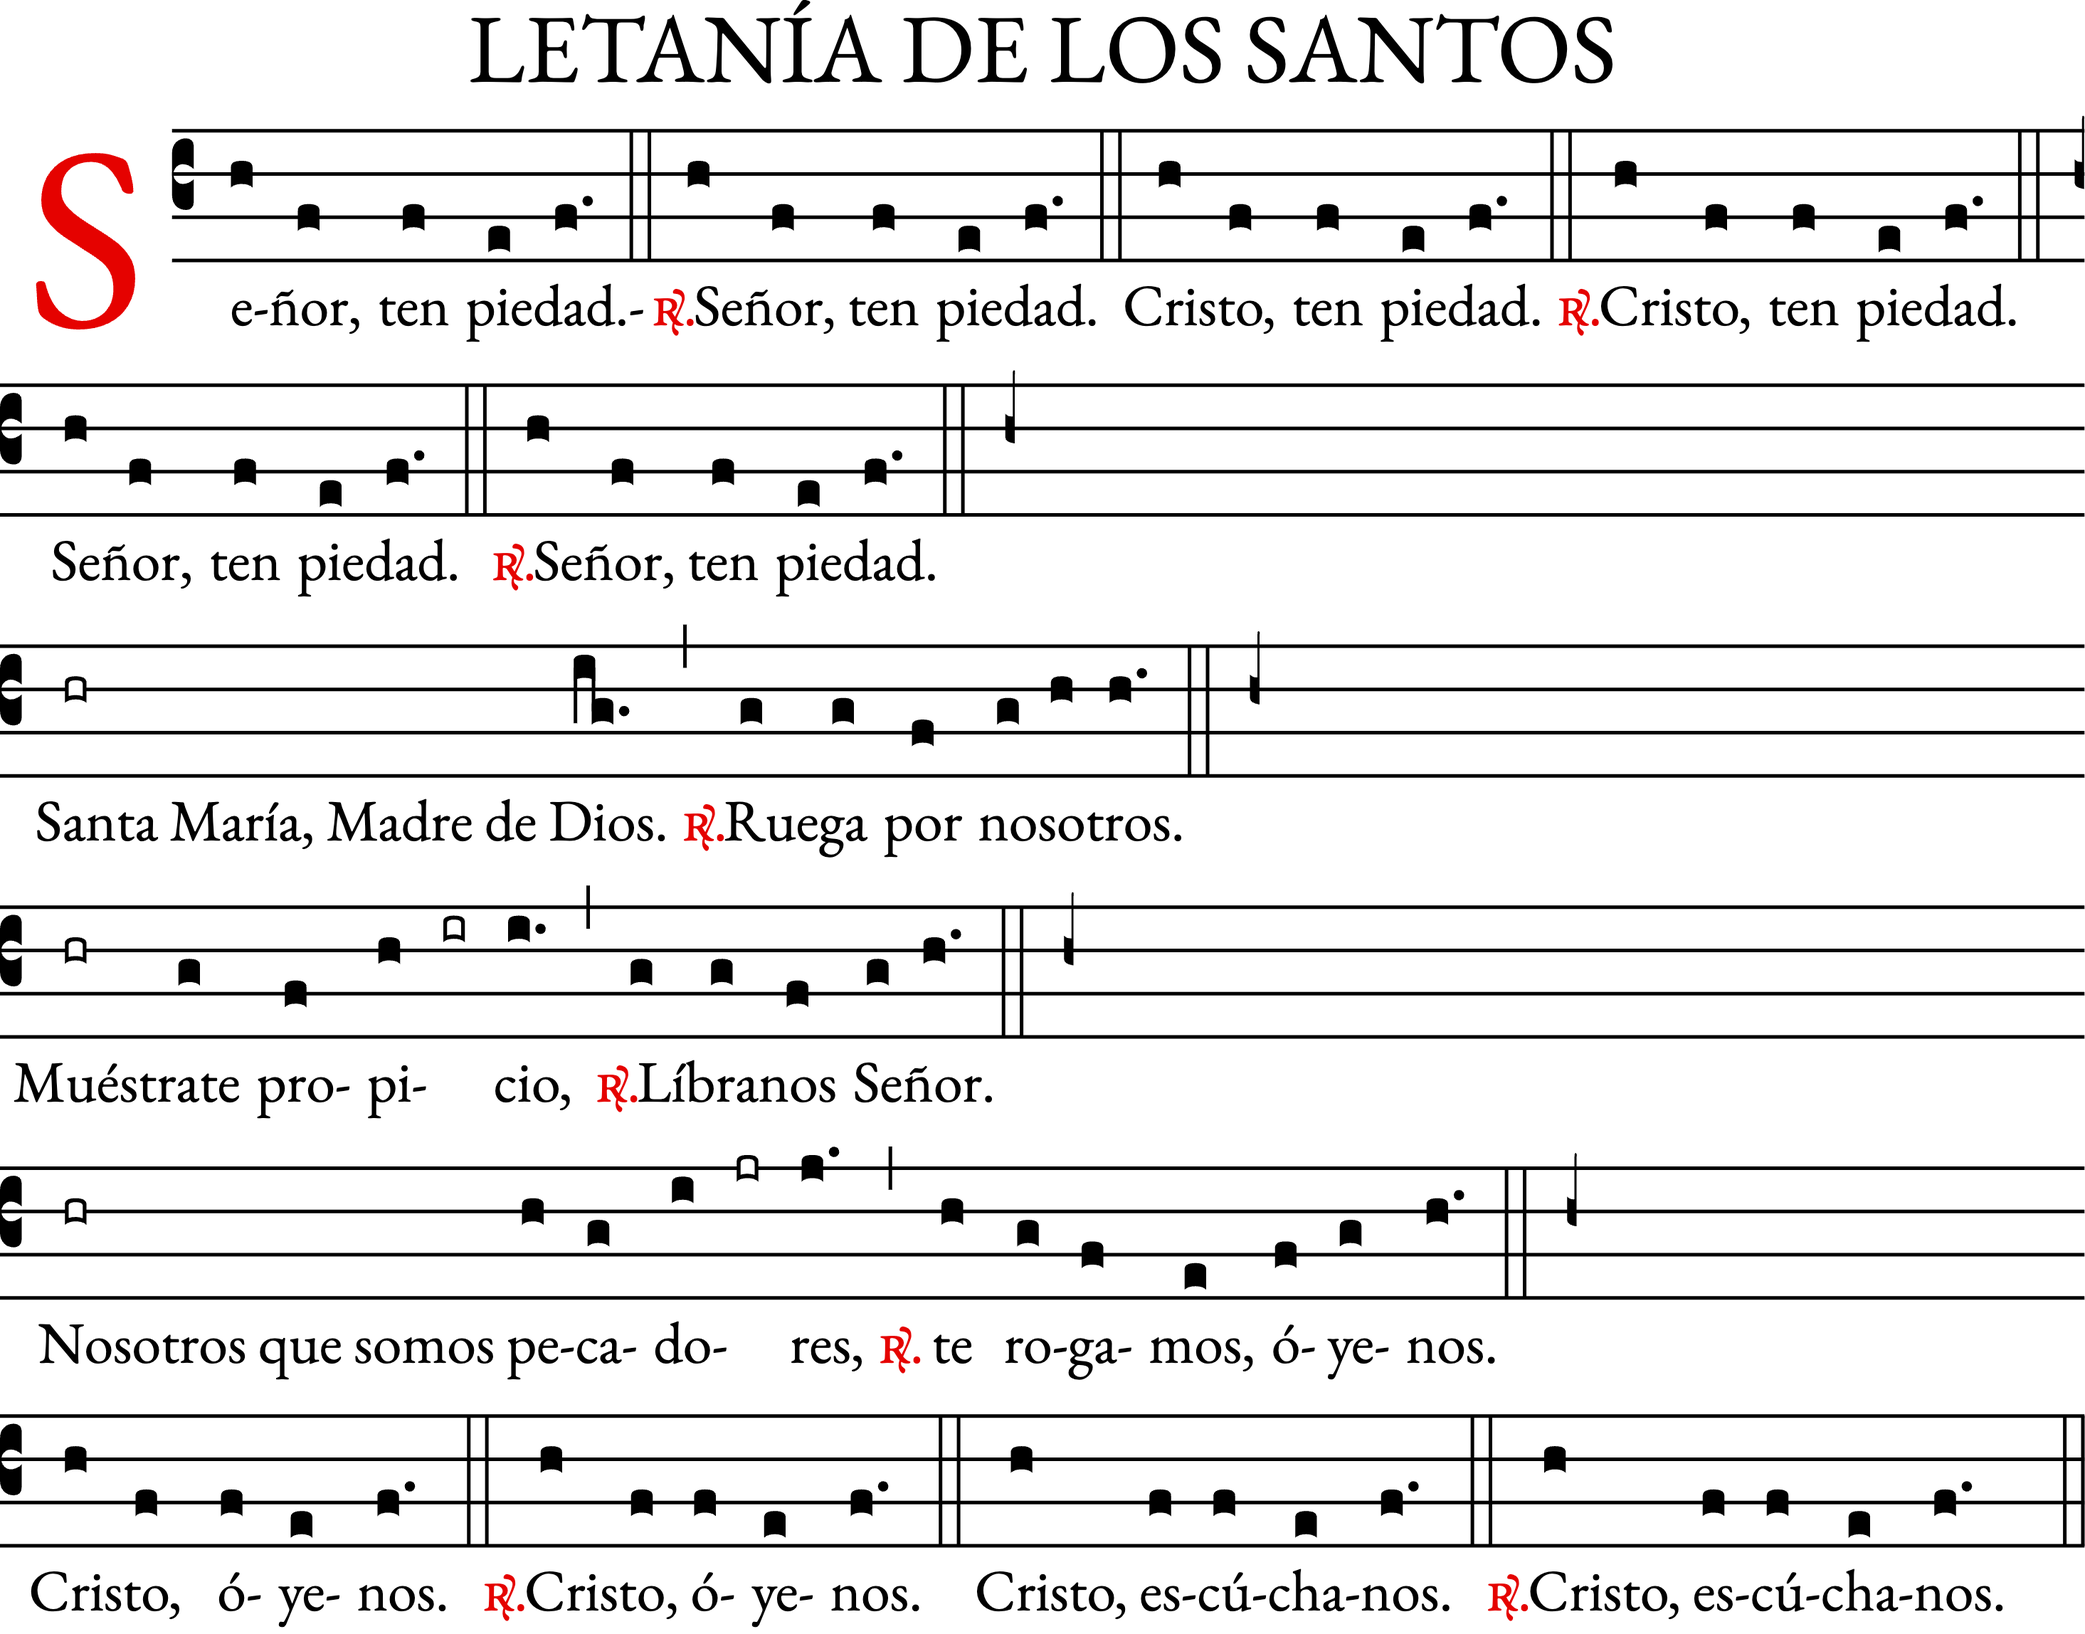
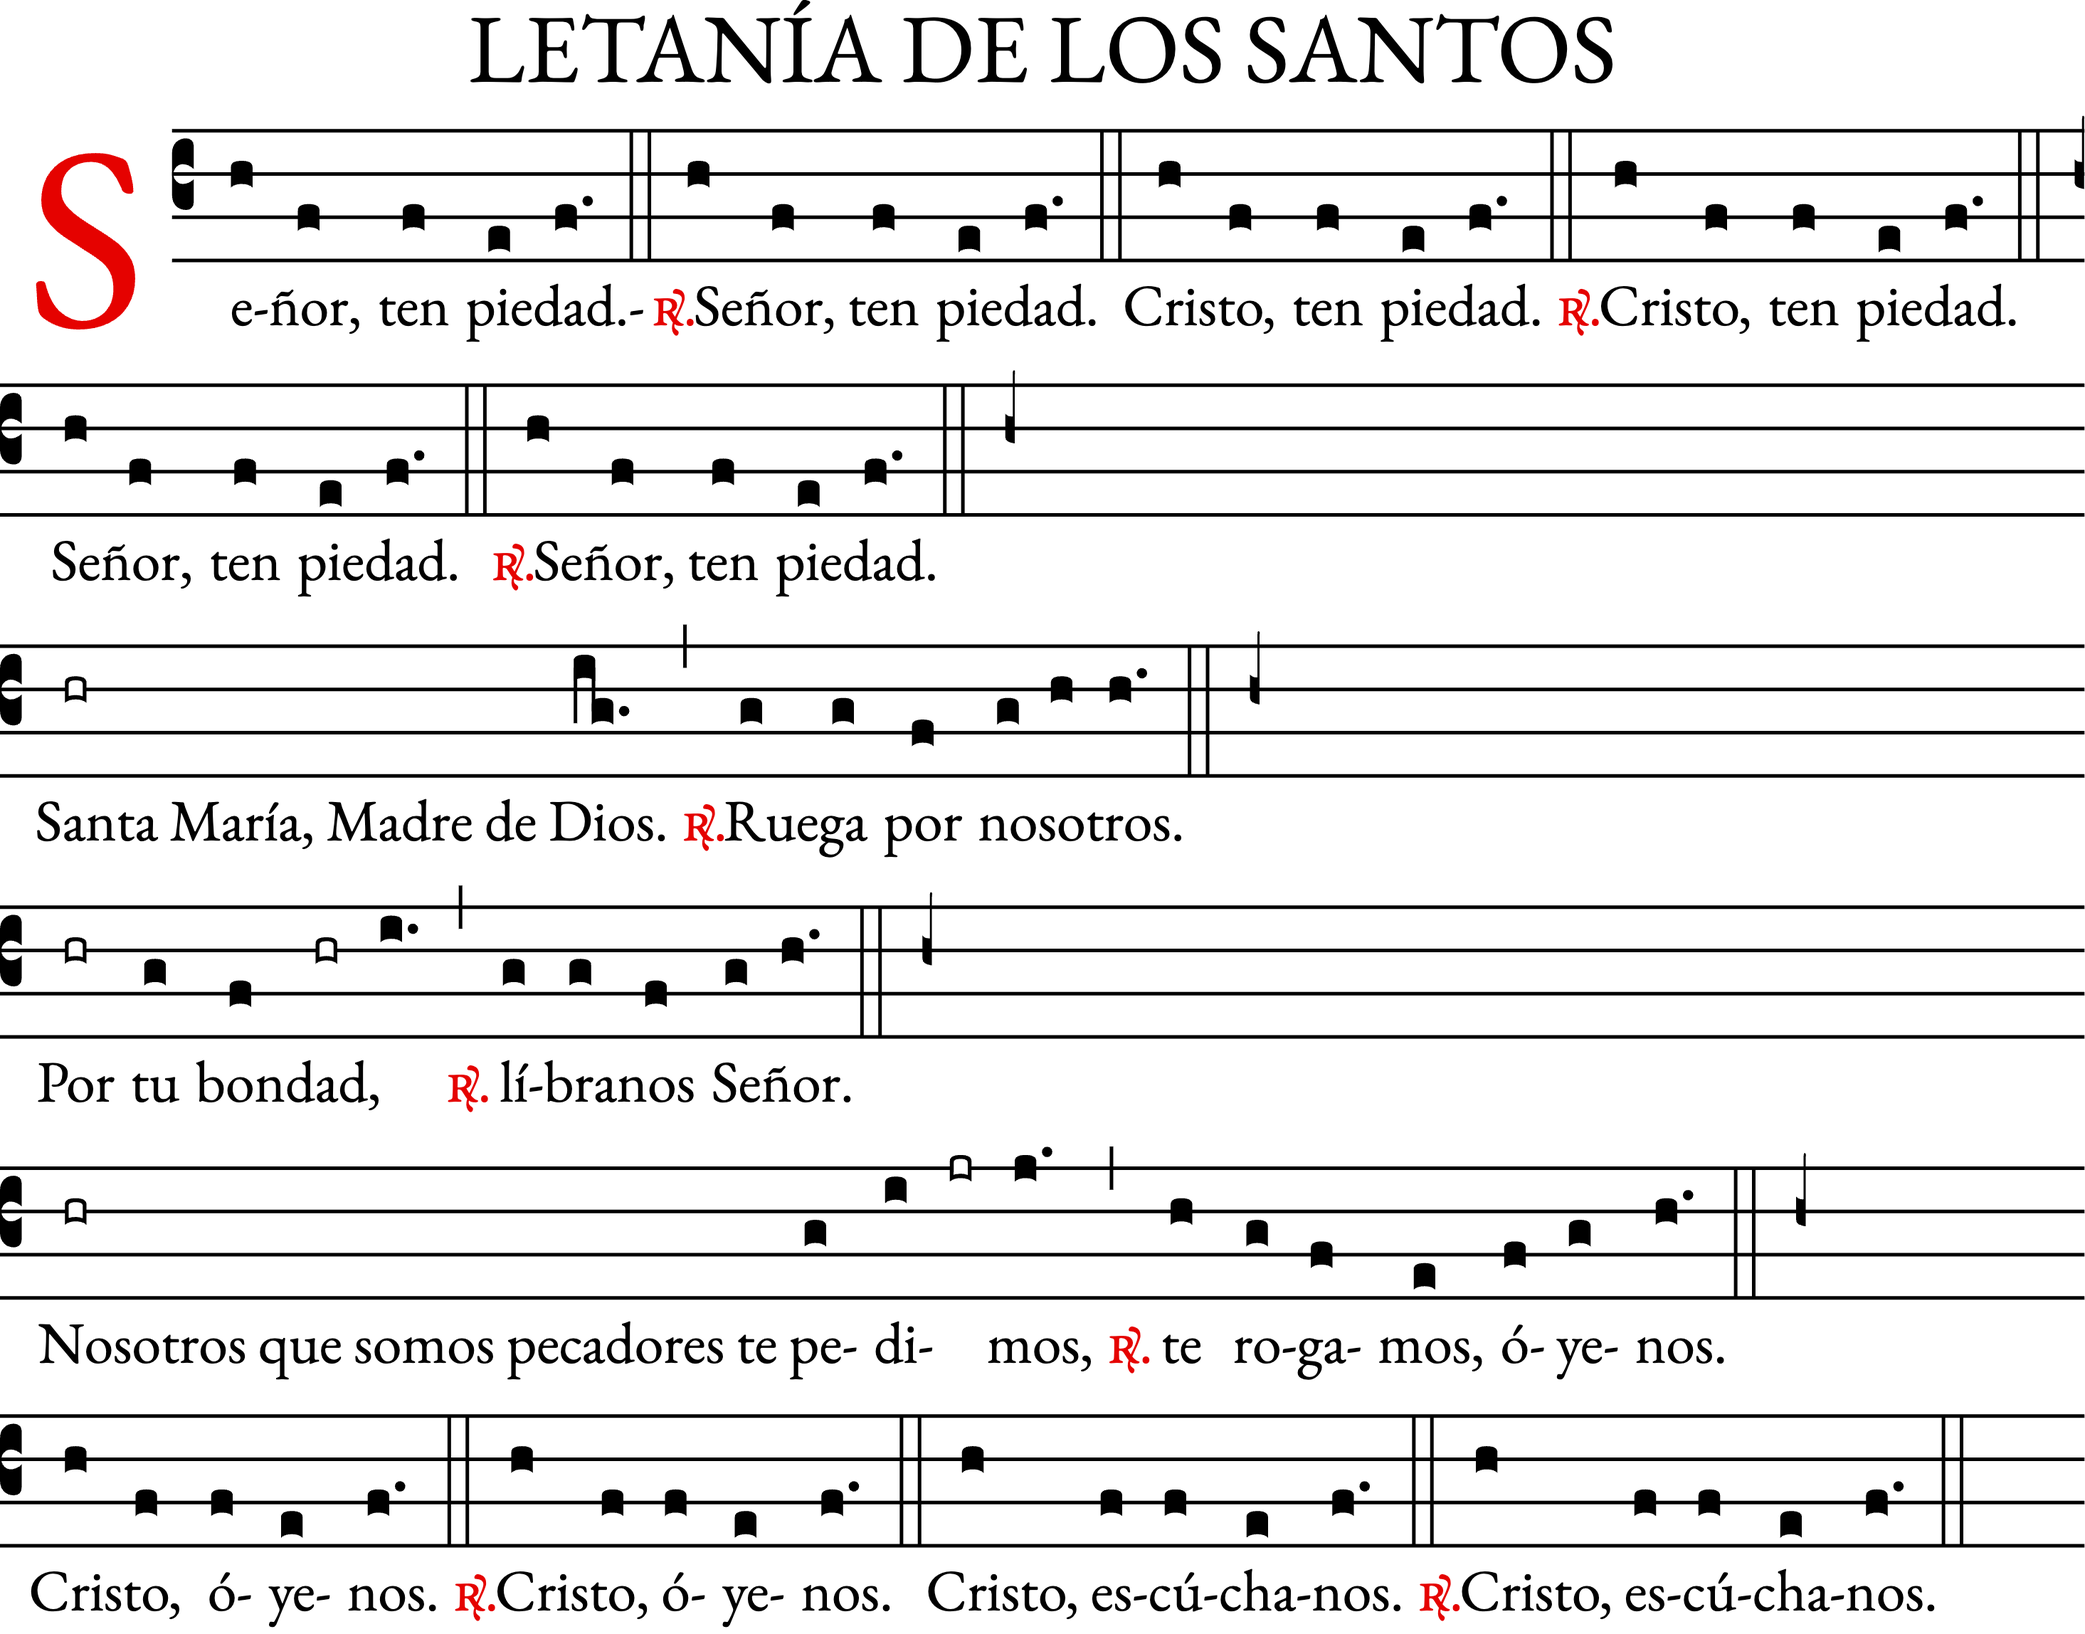
update

diff --git a/Liturgias especiales/Letanía de los santos (O.S.A.).html b/Liturgias especiales/Letanía de los santos (O.S.A.).html
@@ -34,118 +34,104 @@ $(function(){
 
 <div class="d-flex">
 
-<div class="col-12 col-lg-4 mb-5">
-
-<img class="img-fluid" src="files/Litaniae-Sanctorum-1.svg">
-<pre>
+<pre id="letra" data-key="LA">
 LAm
-Señor, TEN PIEDAD/ Señor, ten piedad
-CRISTO, TEN PIEDAD/ Cristo, ten piedad
-Señor, TEN PIEDAD/ Señor, ten piedad
-</pre>
+SEÑOR, TEN PIEDAD          / Señor, ten piedad
+CRISTO, TEN PIEDAD         / Cristo, ten piedad
+SEÑOR, TEN PIEDAD          / Señor, ten piedad
 
-<img class="img-fluid" src="files/Litaniae-Sanctorum-2.svg">
-<pre>
 LAm                   RE                DO
-SANTA María, MADRE DE DIOS/ Ruega por nosotros.
-SAN MIGUEL/ Ruega por nosotros
-SANTOS ángelES DE DIOS/ Rueguen por nosotros
-SAN JUAN BAUTISTA/ Ruega por nosotros
-SAN José/ Ruega por nosotros
-SANTOS PEDRO Y PABLO/ Rueguen por nosotros
-SAN ANDR?S/ Ruega por nosotros
-SAN JUAN/ Ruega por nosotros
-SANTA María MAGDALENA/ Ruega por nosotros
-SAN ESTEBAN/ Ruega por nosotros
-SAN IGNACIO DE ANTIOQU?A/ Ruega por nosotros
-SAN LORENZO/ Ruega por nosotros
-SANTAS PERPETUA Y FELICIDAD/ 
-                        Rueguen por nosotros
-SANTA IN?S/ Ruega por nosotros
-SAN GREGORIO MAGNO/ Ruega por nosotros
-SANTO Padre AGUST?N/ Ruega por nosotros
-SANTA M?NICA/ Ruega por nosotros
-SAN ATANASIO/ Ruega por nosotros
-SAN BASILIO/ Ruega por nosotros
-SAN MARTIN DE TOURS / Ruega por nosotros
-SAN AMBROSIO/ Ruega por nosotros
-SANTOS ALIPIO Y POSIDIO/ Rueguen por nosotros
-SAN BENITO/ Ruega por nosotros
-SAN BERNARDO/ Ruega por nosotros
-SAN FRANCISCO/ Ruega por nosotros
-SANTO DOMINGO/ Ruega por nosotros
-SAN NICOL?S DE TOLENTINO/ Ruega por nosotros
-SANTA CLARA DE MONTEFALCO/ Ruega por nosotros
-SANTA RITA DE CASIA/ Ruega por nosotros
-SANTA CATALINA DE SIENA/ Ruega por nosotros
-SAN JUAN DE SAHAG?N/ Ruega por nosotros
-SANTO TOmás DE VILLANUEVA/ Ruega por nosotros
-SAN JUAN STONE/ Ruega por nosotros
+SANTA MARÍA, MADRE DE DIOS / Ruega por nosotros.
+SAN MIGUEL                 / Ruega por nosotros
+SANTOS ÁNGELES DE DIOS     / Rueguen por nosotros
+SAN JUAN BAUTISTA          / Ruega por nosotros
+SAN JOSÉ                   / Ruega por nosotros
+SANTOS PEDRO Y PABLO       / Rueguen por nosotros
+SAN ANDRÉS                 / Ruega por nosotros
+SAN JUAN                   / Ruega por nosotros
+SANTA MARÍA MAGDALENA      / Ruega por nosotros
+SAN ESTEBAN                / Ruega por nosotros
+SAN IGNACIO DE ANTIOQUíA   / Ruega por nosotros
+SAN LORENZO                / Ruega por nosotros
+SANTAS PERPETUA Y FELICIDAD/ Rueguen por nosotros
+SANTA INÉS                 / Ruega por nosotros
+SAN GREGORIO MAGNO         / Ruega por nosotros
+SANTO PADRE AGUSTÍN        / Ruega por nosotros
+SANTA MÓNICA               / Ruega por nosotros
+SAN ATANASIO               / Ruega por nosotros
+SAN BASILIO                / Ruega por nosotros
+SAN MARTIN DE TOURS        / Ruega por nosotros
+SAN AMBROSIO               / Ruega por nosotros
+SANTOS ALIPIO Y POSIDIO    / Rueguen por nosotros
+SAN BENITO                 / Ruega por nosotros
+SAN BERNARDO               / Ruega por nosotros
+SAN FRANCISCO              / Ruega por nosotros
+SANTO DOMINGO              / Ruega por nosotros
+SAN NICOLÁS DE TOLENTINO   / Ruega por nosotros
+SANTA CLARA DE MONTEFALCO  / Ruega por nosotros
+SANTA RITA DE CASIA        / Ruega por nosotros
+SANTA CATALINA DE SIENA    / Ruega por nosotros
+SAN JUAN DE SAHAGÚN        / Ruega por nosotros
+SANTO TOMÁS DE VILLANUEVA  / Ruega por nosotros
+SAN JUAN STONE             / Ruega por nosotros
 SANTA MAGDALENA DE NAGASAKI/ Ruega por nosotros
-SAN IGNACIO DE LOYOLA/ Ruega por nosotros
-SANTA TERESA DE ?VILA/ Ruega por nosotros
-SAN VICENTE DE PA?L/ Ruega por nosotros
-SAN JUAN BOSCO/ Ruega por nosotros
-SAN EZEQUIEL MORENO/ Ruega por nosotros
-SANTA TERESA DE LOS ANDES/ Ruega por nosotros
-SAN ALBERTO HURTADO/ Ruega por nosotros
-BEATA LAURA VICU?A/ Ruega por nosotros
-BEATO ESTEBAN BELLESINI/ Ruega por nosotros
-BEATO José AGUST?N FARI?A/ Ruega por nosotros
-SANTOS Y  SANTAS DE DIOS/ Rueguen por nosotros
-</pre>
+SAN IGNACIO DE LOYOLA      / Ruega por nosotros
+SANTA TERESA DE ÁVILA      / Ruega por nosotros
+SAN VICENTE DE PAÚL        / Ruega por nosotros
+SAN JUAN BOSCO             / Ruega por nosotros
+SAN EZEQUIEL MORENO        / Ruega por nosotros
+SANTA TERESA DE LOS ANDES  / Ruega por nosotros
+SAN ALBERTO HURTADO        / Ruega por nosotros
+BEATA LAURA VICUÑA         / Ruega por nosotros
+BEATO ESTEBAN BELLESINI    / Ruega por nosotros
+BEATO JOSÉ AGUSTÍN FARIÑA  / Ruega por nosotros
+SANTOS Y SANTAS DE DIOS    / Rueguen por nosotros
 
-<img class="img-fluid" src="files/Litaniae-Sanctorum-3.svg">
 
-<pre>
-LAm          RE                DO
-MU?STRATE PROPICIO/ líbranos Señor
-DE TODO MAL/ líbranos Señor
-DE TODO PECADO/ líbranos Señor
-DE LA MUERTE ETERNA/ líbranos Señor
-POR TU ENCARnacióN/ líbranos Señor
-POR TU MUERTE Y REsurrección/ líbranos Señor
-POR EL ENV?O DEL Espíritu SANTO/ líbranos Señor
-</pre>
+LAm          RE                         DO
+MUÉSTRATE PROPICIO         / líbranos Señor
+DE TODO MAL                / líbranos Señor
+DE TODO PECADO             / líbranos Señor
+DE LA MUERTE ETERNA        / líbranos Señor
+POR TU ENCARNACIÓN         / líbranos Señor
+POR TU MUERTE Y RESURRECCIÓN/ líbranos Señor
+POR EL ENVÍO DEL ESPÍRITU SANTO/ líbranos Señor
 
-<img class="img-fluid" src="files/Litaniae-Sanctorum-4.svg">
 
-<pre>
-LAm                    RE                 DO
-NOSOTROS QUE SOMOS PECADORES/ Te rogamos, ?yenos
+LAm                    RE                  DO
+NOSOTROS QUE SOMOS PECADORES / Te rogamos, óyenos
  
-<b><i>(*SECCI?N OPCIONAL)</i></b>
-PARA QUE GOBIERNES Y CONSERVES A TU SANTA 
-     IGLESIA/ Te rogamos ?yenos
+<b><i>(* SECCIÓN OPCIONAL *)</i></b>
+PARA QUE GOBIERNES Y CONSERVES A TU SANTA IGLESIA
+                              / Te rogamos óyenos
 PARA QUE ASISTAS AL PAPA Y A TODOS SUS MIEMBROS 
-     DEL CLERO EN TU SERVICIO SANTO/ 
-                           Te rogamos, ?yenos
-PARA QUE BENDIGAS A ESTE ELEGIDO/ 
-                           Te rogamos, ?yenos
-PARA QUE BENDIGAS Y SANTIFIQUES A ESTE ELEGIDO/
-                           Te rogamos, ?yenos
+     DEL CLERO EN TU SERVICIO SANTO
+                              / Te rogamos, óyenos
+PARA QUE BENDIGAS A ESTE ELEGIDO
+                              / Te rogamos, óyenos
+PARA QUE BENDIGAS Y SANTIFIQUES A ESTE ELEGIDO
+                              / Te rogamos, óyenos
 PARA QUE BENDIGAS, SANTIFIQUES Y CONSAGRES 
-     A ESTE ELEGIDO/ Te rogamos, ?yenos
+     A ESTE ELEGIDO           / Te rogamos, óyenos
 PARA QUE CONCEDAS PAZ Y CONCORDIA A TODOS LOS 
-     PUEBLOS DE LA TIERRA/ Te rogamos, ?yenos
+     PUEBLOS DE LA TIERRA     / Te rogamos, óyenos
 PARA QUE TENGAS MISERICORDIA DE TODOS 
-     LOS QUE SUFREN/ Te rogamos, ?yenos
+     LOS QUE SUFREN           / Te rogamos, óyenos
 PARA QUE NOS FORTALEZCAS Y ASISTAS EN TU 
-     SERVICIO SANTO/ Te rogamos, ?yenos
-<b><i>(*FIN SECCI?N OPCIONAL)</i></b>
+     SERVICIO SANTO           / Te rogamos, óyenos
+<b><i>(* FIN SECCIÓN OPCIONAL *)</i></b>
 
-Jesús, HIJO DE DIOS VIVO/ Te rogamos, ?yenos
-</pre>
+JESÚS, HIJO DE DIOS VIVO      / Te rogamos, óyenos
 
-<img class="img-fluid" src="files/Litaniae-Sanctorum-5.svg">
 
-<pre>
 LAm
-CRISTO, ?YENOS/ Cristo, ?yenos
-CRISTO, ESC?CHANOS/ Cristo, esc?chanos.
+CRISTO, ÓYENOS            / Cristo, óyenos
+CRISTO, ESCÚCHANOS       / Cristo, escÚchanos.
 </pre>
-</div>
 
+<div class="col-12 col-lg-5 mb-5">
+<img class="img-fluid" src="files/letania-de-los-santos-osa.png">
+</div>
 
 
 <div class="col-12 col-lg-3 mb-5">
@@ -154,6 +140,16 @@ CRISTO, ESC?CHANOS/ Cristo, esc?chanos.
 </div>
 </div>
 
+<script src="../scripts/cancioneromenor.js"></script>
+
+
+<script type="text/javascript">
+$(function() {
+        $(".btn").show();
+        $("#letra").transpose();
+        
+    });
+  </script>
 
   </body>
   </html>

diff --git a/Liturgias especiales/Letanía de los santos.html b/Liturgias especiales/Letanía de los santos.html
@@ -34,101 +34,85 @@ $(function(){
 
 <div class="d-flex">
 
-<div class="col-12 col-lg-4 mb-5">
-
-<img class="img-fluid" src="files/Litaniae-Sanctorum-1.svg">
-<pre>
+<pre id="letra" data-key="LA">
 LAm
-Señor, TEN PIEDAD/ Señor, ten piedad
-CRISTO, TEN PIEDAD/ Cristo, ten piedad
-Señor, TEN PIEDAD/ Señor, ten piedad
-</pre>
+SEÑOR, TEN PIEDAD          / Señor, ten piedad
+CRISTO, TEN PIEDAD         / Cristo, ten piedad
+SEÑOR, TEN PIEDAD          / Señor, ten piedad
 
-<img class="img-fluid" src="files/Litaniae-Sanctorum-2.svg">
-<pre>
 
 <b><i>Se pueden agregar los nombres de otros santos, 
 especialmente del titular de la iglesia, 
 de los patronos del lugar 
 y de los que van a ser bautizados</i></b>
 
-LAm                   RE                DO
-SANTA María, MADRE DE DIOS/ Ruega por nosotros.
-SAN MIGUEL/ Ruega por nosotros
-SANTOS ángelES DE DIOS/ Rueguen por nosotros
-SAN JUAN BAUTISTA/ Ruega por nosotros
-SAN José/ Ruega por nosotros
-SANTOS PEDRO Y PABLO/ Rueguen por nosotros
-SAN ANDR?S/ Ruega por nosotros
-SAN JUAN/ Ruega por nosotros
-SANTA María MAGDALENA/ Ruega por nosotros
-SAN ESTEBAN/ Ruega por nosotros
-SAN IGNACIO DE ANTIOQU?A/ Ruega por nosotros
-SAN LORENZO/ Ruega por nosotros
-SANTAS PERPETUA Y FELICIDAD/ 
-                        Rueguen por nosotros
-SANTA IN?S/ Ruega por nosotros
-SAN GREGORIO MAGNO/ Ruega por nosotros
-SAN AGUST?N/ Ruega por nosotros
-SAN ATANASIO/ Ruega por nosotros
-SAN BASILIO/ Ruega por nosotros
-SAN MARTIN DE TOURS / Ruega por nosotros
-SAN BENITO/ Ruega por nosotros
-SANTOS FRANCISCO Y DOMINGO/ Rueguen por nosotros
-SAN FRANCISCO JAVIER/ Ruega por nosotros
-SAN JUAN MARIA VIANNEY / Ruega por nosotros
-SANTA CATALINA DE SIENA / Ruega por nosotros
-SANTA TERESA DE Jesús / Ruega por nosotros
-TODOS LOS SANTOS Y  SANTAS DE DIOS/ 
-                        Rueguen por nosotros
-</pre>
+LAm                   RE                 DO
+SANTA MARÍA, MADRE DE DIOS / Ruega por nosotros.
+SAN MIGUEL                 / Ruega por nosotros
+SANTOS ÁNGELES DE DIOS     / Rueguen por nosotros
+SAN JUAN BAUTISTA          / Ruega por nosotros
+SAN JOSÉ                   / Ruega por nosotros
+SANTOS PEDRO Y PABLO       / Rueguen por nosotros
+SAN ANDRÉS                 / Ruega por nosotros
+SAN JUAN                   / Ruega por nosotros
+SANTA MARÍA MAGDALENA      / Ruega por nosotros
+SAN ESTEBAN                / Ruega por nosotros
+SAN IGNACIO DE ANTIOQUÍA   / Ruega por nosotros
+SAN LORENZO                / Ruega por nosotros
+SANTAS PERPETUA Y FELICIDAD/ Rueguen por nosotros
+SANTA INÉS                 / Ruega por nosotros
+SAN GREGORIO MAGNO         / Ruega por nosotros
+SAN AGUSTÍN                / Ruega por nosotros
+SAN ATANASIO               / Ruega por nosotros
+SAN BASILIO                / Ruega por nosotros
+SAN MARTIN DE TOURS        / Ruega por nosotros
+SAN BENITO                 / Ruega por nosotros
+SANTOS FRANCISCO Y DOMINGO / Rueguen por nosotros
+SAN FRANCISCO JAVIER       / Ruega por nosotros
+SAN JUAN MARIA VIANNEY     / Ruega por nosotros
+SANTA CATALINA DE SIENA    / Ruega por nosotros
+SANTA TERESA DE JESÚS      / Ruega por nosotros
+TODOS LOS SANTOS Y SANTAS DE DIOS
+                           / Rueguen por nosotros
 
-<img class="img-fluid" src="files/Litaniae-Sanctorum-3.svg">
 
-<pre>
-LAm          RE                DO
-POR TU BONDAD/ líbranos Señor
-DE TODO MAL/ líbranos Señor
-DE TODO PECADO/ líbranos Señor
-DE LA MUERTE ETERNA/ líbranos Señor
-POR EL MISTERIO DE TU ENCARnacióN/ 
-                         líbranos Señor
-POR TU MUERTE Y REsurrección/ líbranos Señor
-POR EL ENV?O DEL Espíritu SANTO/ líbranos Señor
-</pre>
+LAm       RE                                DO
+POR TU BONDAD                  / líbranos Señor
+DE TODO MAL                    / líbranos Señor
+DE TODO PECADO                 / líbranos Señor
+DE LA MUERTE ETERNA            / líbranos Señor
+POR EL MISTERIO DE TU ENCARNACIÓN
+                               / líbranos Señor
+POR TU MUERTE Y RESURRECCIÓN   / líbranos Señor
+POR EL ENVÍO DEL ESPÍRITU SANTO/ líbranos Señor
 
-<img class="img-fluid" src="files/Litaniae-Sanctorum-4.svg">
 
-<pre>
 LAm                               RE
-NOSOTROS QUE SOMOS PECADORES TE PEDIMOS/ 
-                               DO
-                    Te rogamos, ?yenos
- 
+NOSOTROS QUE SOMOS PECADORES TE PEDIMOS
+                                          DO
+                            / Te rogamos, óyenos
+
 <b><i>Si hay bautizandos</i></b>
 PARA QUE POR LA GRACIA DEL BAUTISMO 
-HAGAS RENACER A ESTOS ELEGIDOS TUYOS / 
-                    Te rogamos, ?yenos
-
+HAGAS RENACER A ESTOS ELEGIDOS TUYOS
+                           / Te rogamos, óyenos
 <b><i>Si no hay bautizandos</i></b>
 PARA QUE CON TU GRACIA 
 SANTIFIQUES ESTA FUENTE 
-EN LA QUE HAN DE RENACER TUS HIJOS /
-                    Te rogamos, ?yenos
+EN LA QUE HAN DE RENACER TUS HIJOS
+                          / Te rogamos, óyenos
+
+JESÚS, HIJO DE DIOS VIVO/ 
+                          / Te rogamos, óyenos
 
 
-
-Jesús, HIJO DE DIOS VIVO/ 
-                     Te rogamos, ?yenos
-</pre>
-
-<img class="img-fluid" src="files/Litaniae-Sanctorum-5.svg">
-
-<pre>
 LAm
-CRISTO, ?YENOS/ Cristo, ?yenos
-CRISTO, ESC?CHANOS/ Cristo, esc?chanos.
+CRISTO, ÓYENOS            / Cristo, óyenos
+CRISTO, ESCÚCHANOS       / Cristo, escÚchanos.
 </pre>
+
+<div class="col-12 col-lg-5 mb-5">
+<img class="img-fluid" src="files/letania-de-los-santos.png">
 </div>
 
 
@@ -139,6 +123,16 @@ CRISTO, ESC?CHANOS/ Cristo, esc?chanos.
 </div>
 </div>
 
+<script src="../scripts/cancioneromenor.js"></script>
+
+
+<script type="text/javascript">
+$(function() {
+        $(".btn").show();
+        $("#letra").transpose();
+        
+    });
+  </script>
 
   </body>
   </html>
